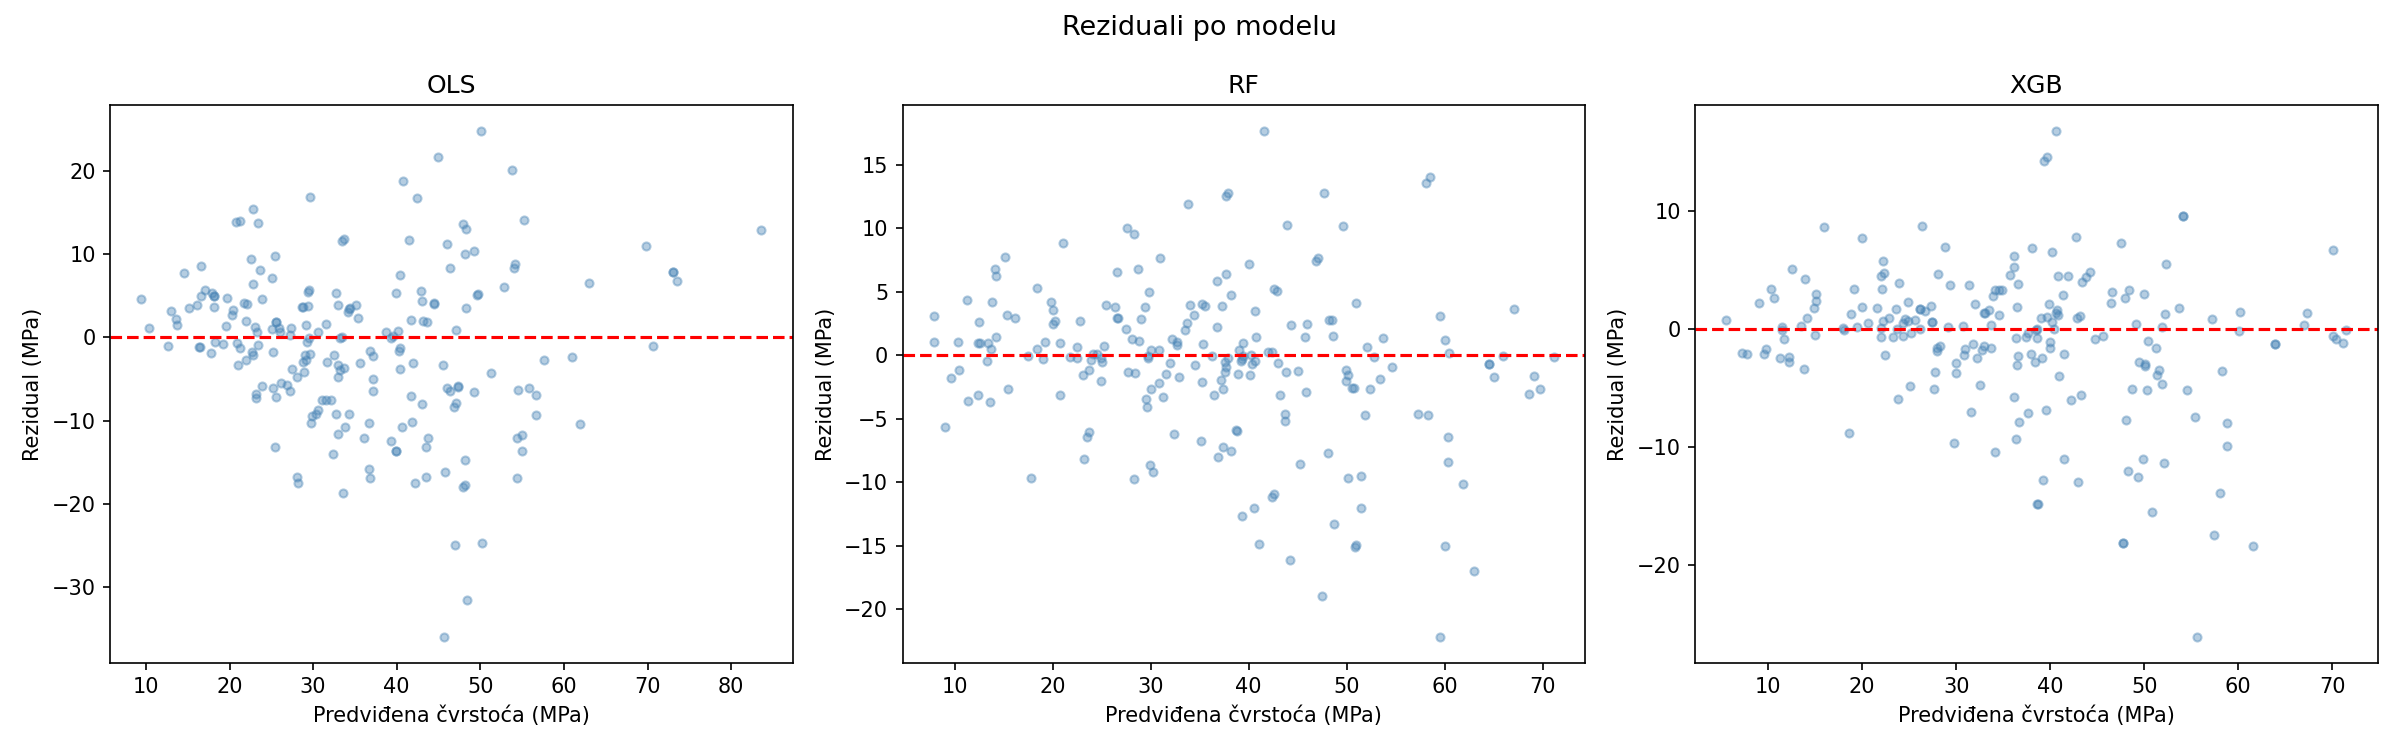
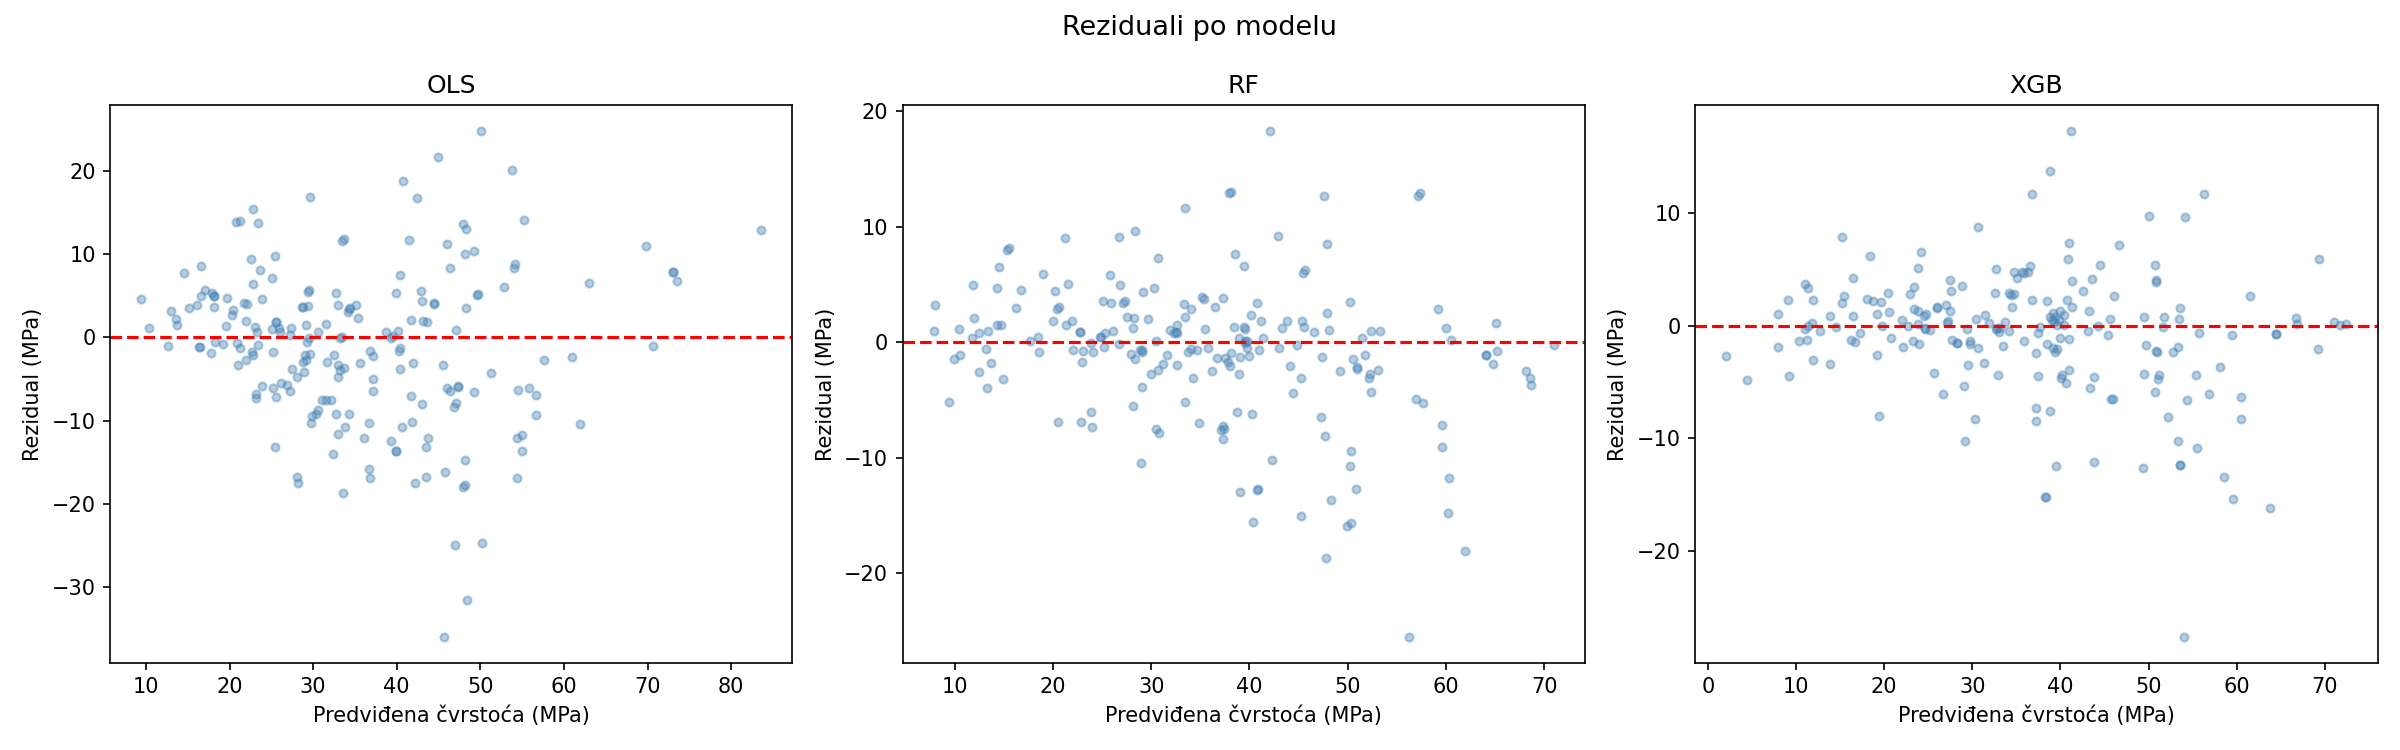
Add statsmodels OLS report and improve RF/XGB hyperparameter tuning
Add a helper that prints the statsmodels OLS summary report and print a regression summary for the whole dataset in the evaluation script. Extend and improve the hyperparameter grids for RandomForest and XGBoost (adding parameters such as n_estimators, max_features, learning_rate and regularization options). Update XGBoost tuning to accept a validation set with early stopping and eval_metric; in the main block, update imports and usage of preprocessing functions and pass validation data to tune_xgb.

diff --git a/src/evaluation.py b/src/evaluation.py
@@ -1,5 +1,6 @@
 import numpy as np
 import pandas as pd
+import statsmodels.api as sm
 from sklearn.metrics import mean_squared_error, mean_absolute_error
 
 
@@ -27,6 +28,12 @@ def evaluate_model(model, x_train, x_val, x_test, y_train, y_val, y_test):
     return results
 
 
+def ols_summary(x_train, y_train):
+    x_with_const = sm.add_constant(x_train)
+    model = sm.OLS(y_train, x_with_const).fit()
+    print(model.summary())
+
+
 def comparison_table(results_dict):
     rows = []
     for model_name, splits in results_dict.items():
@@ -36,9 +43,15 @@ def comparison_table(results_dict):
 
 
 if __name__ == "__main__":
-    from preprocessing import load_and_prepare
+    from preprocessing import load_data, add_features, cap_outliers, MODEL_FEATURE_COLS, TARGET_COL, load_and_prepare
     from models import train_ols, tune_rf, tune_xgb
     from visualization import plot_actual_vs_predicted, plot_residuals, plot_feature_importance
+
+    df = load_data()
+    df = add_features(df)
+    df = cap_outliers(df)
+    print("OLS Summary — ceo dataset (statsmodels):")
+    ols_summary(df[MODEL_FEATURE_COLS], df[TARGET_COL])
 
     x_train, x_val, x_test, y_train, y_val, y_test = load_and_prepare(cap=True)
     ols = train_ols(x_train, y_train)
@@ -49,7 +62,7 @@ if __name__ == "__main__":
     rf = tune_rf(x_train_r, y_train_r)
 
     print("Tuning XGBoost...")
-    xgb = tune_xgb(x_train_r, y_train_r)
+    xgb = tune_xgb(x_train_r, y_train_r, x_val_r, y_val_r)
 
     results = {
         "OLS": evaluate_model(ols, x_train, x_val, x_test, y_train, y_val, y_test),

diff --git a/src/models.py b/src/models.py
@@ -18,11 +18,13 @@ def train_rf(x_train, y_train):
 
 def tune_rf(x_train, y_train):
     param_grid = {
+        "n_estimators": [100, 200, 300],
         "max_depth": [5, 10, 15, None],
         "min_samples_leaf": [1, 2, 4],
+        "max_features": [0.5, 0.75, 1.0],
     }
     grid = GridSearchCV(
-        RandomForestRegressor(n_estimators=100, random_state=42),
+        RandomForestRegressor(random_state=42),
         param_grid,
         scoring="neg_root_mean_squared_error",
         cv=5,
@@ -39,19 +41,23 @@ def train_xgb(x_train, y_train):
     return model
 
 
-def tune_xgb(x_train, y_train):
+def tune_xgb(x_train, y_train, x_val, y_val):
     param_grid = {
+        "n_estimators": [100, 200, 300],
         "max_depth": [3, 4, 6],
+        "learning_rate": [0.05, 0.1],
         "subsample": [0.7, 0.8, 1.0],
         "colsample_bytree": [0.7, 0.8, 1.0],
+        "reg_alpha": [0, 0.1, 1.0],
+        "reg_lambda": [1.0, 5.0, 10.0],
     }
     grid = GridSearchCV(
-        XGBRegressor(n_estimators=100, learning_rate=0.1, random_state=42),
+        XGBRegressor(random_state=42, early_stopping_rounds=20, eval_metric="rmse"),
         param_grid,
         scoring="neg_root_mean_squared_error",
         cv=5,
         n_jobs=-1,
     )
-    grid.fit(x_train, y_train)
+    grid.fit(x_train, y_train, eval_set=[(x_val, y_val)], verbose=False)
     print(f"XGB best params: {grid.best_params_}")
     return grid.best_estimator_
